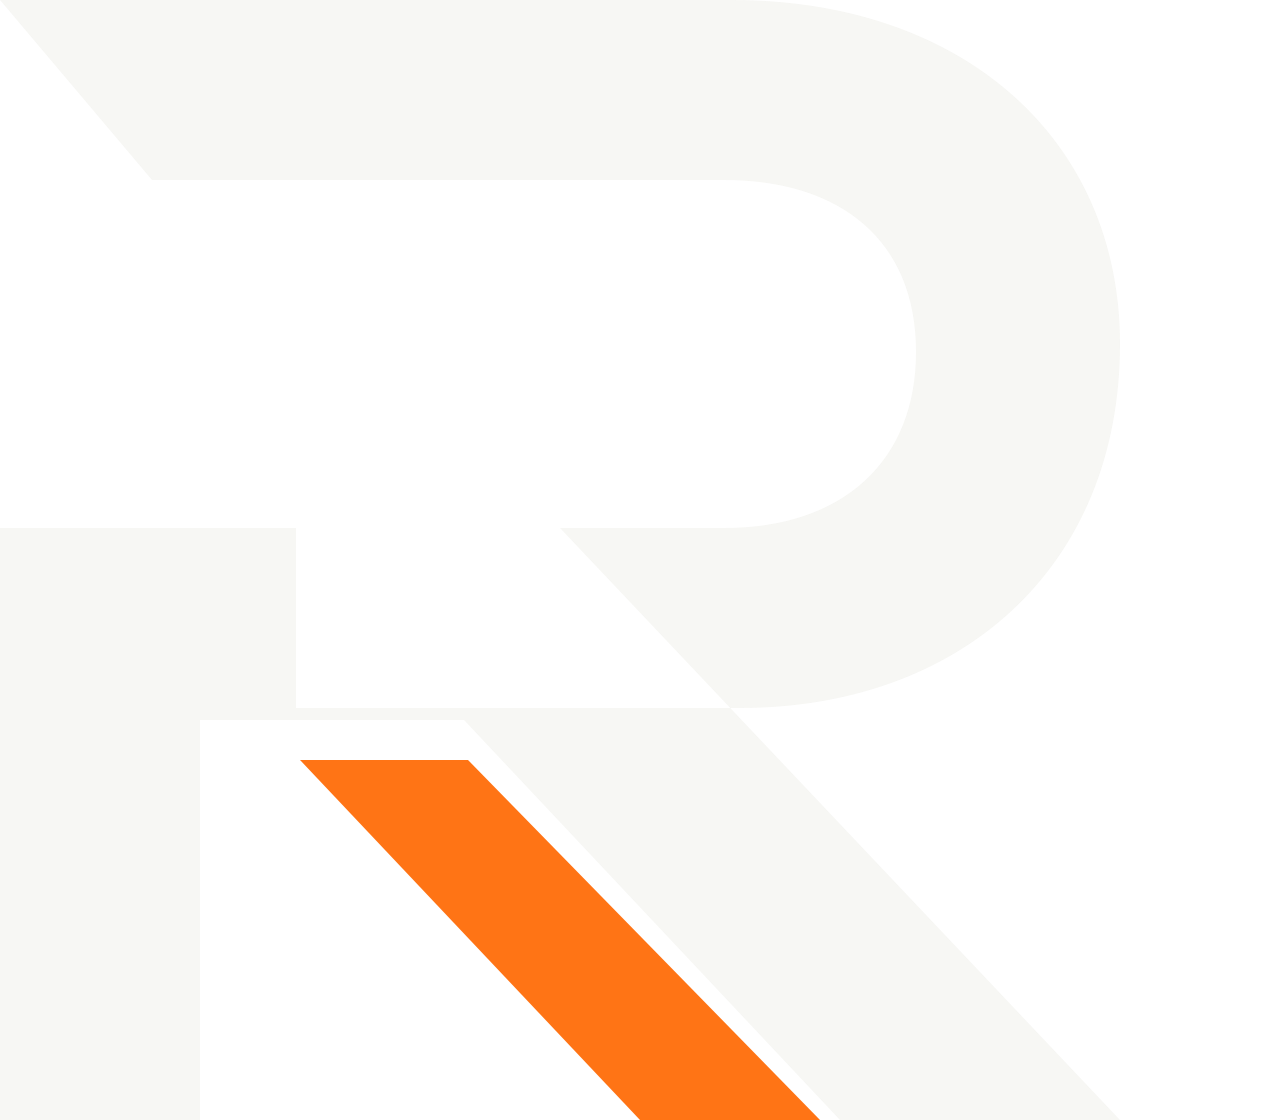
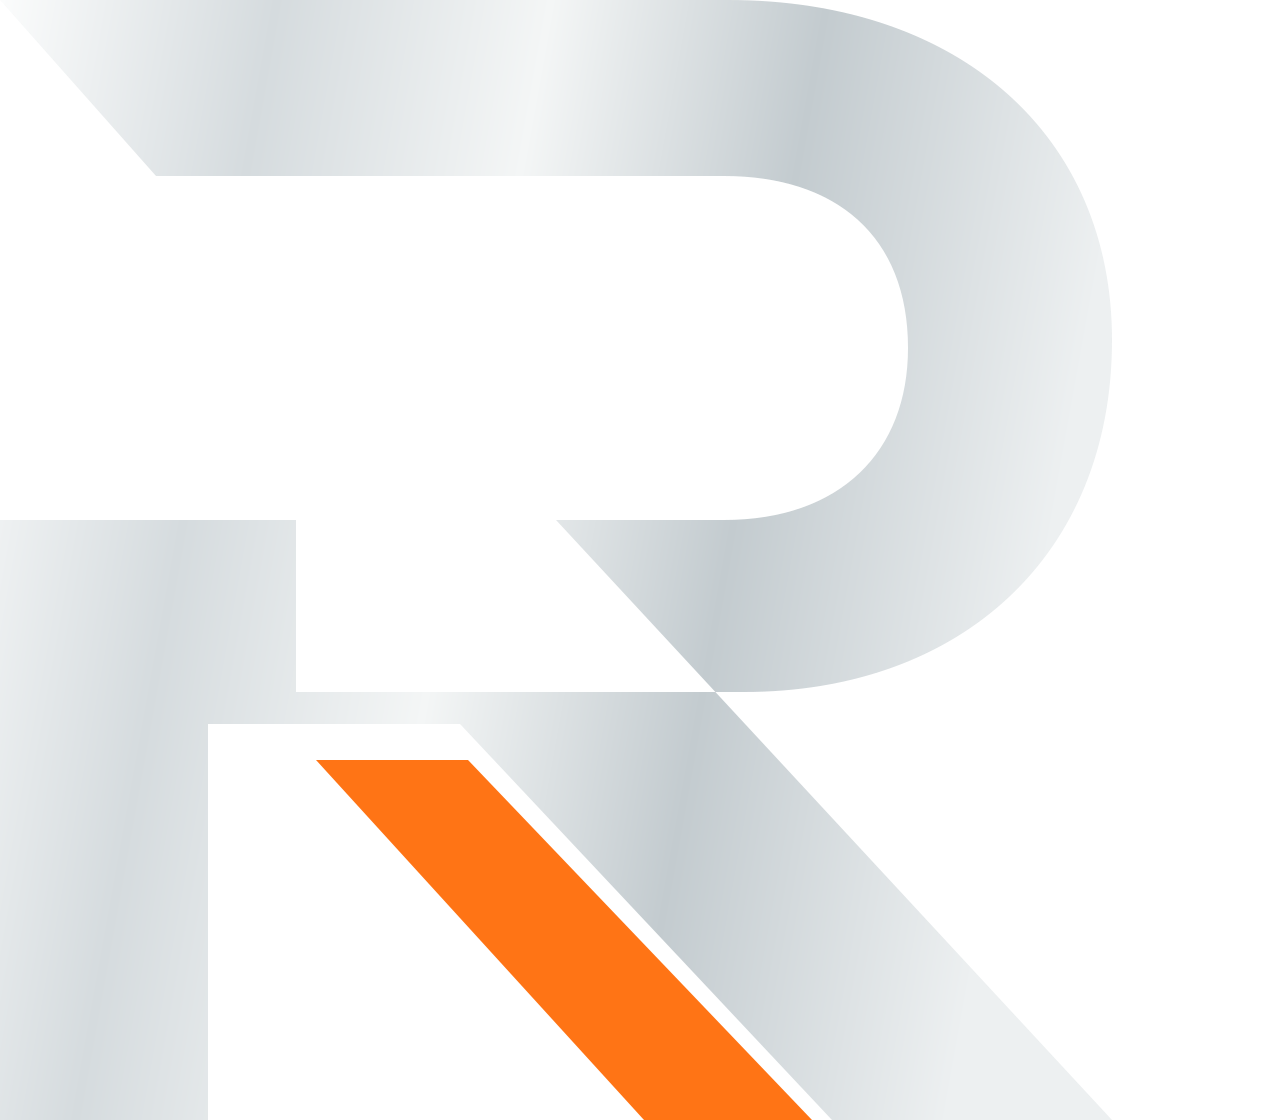
feat(brand): refine approved Rubikon mark

diff --git a/tests/unit/brand-assets.test.ts b/tests/unit/brand-assets.test.ts
@@ -10,7 +10,7 @@ describe('approved RUBIKON BUILD brand assets', () => {
   it('uses one outlined horizontal logo in both shared site-chrome locations', () => {
     const siteChrome = read('app/components/SiteChrome.tsx');
 
-    expect(siteChrome).toContain('src="/brand/rubikon-build-horizontal-dark.svg"');
+    expect(siteChrome).toContain('src="/brand/rubikon-build-horizontal-dark.svg?v=rubikon-03"');
     expect(siteChrome).toContain('width={1270}');
     expect(siteChrome).toContain('height={272}');
     expect(siteChrome).toContain('alt={`${company.name} — будівництво та інженерні рішення`}');
@@ -21,8 +21,10 @@ describe('approved RUBIKON BUILD brand assets', () => {
     const assets = [
       'rubikon-build-horizontal-dark',
       'rubikon-build-horizontal-light',
+      'rubikon-build-horizontal-premium',
       'rubikon-mark-dark',
       'rubikon-mark-light',
+      'rubikon-mark-premium',
     ];
 
     for (const asset of assets) {
@@ -34,6 +36,11 @@ describe('approved RUBIKON BUILD brand assets', () => {
     expect(mark).toContain('viewBox="0 0 320 280"');
     expect(mark).not.toContain('<circle');
     expect(mark).not.toContain('<text');
+    expect(mark).toContain('url(#mark-steel)');
+
+    const favicon = read('public/favicon.svg');
+    expect(favicon).not.toContain('mark-steel');
+    expect(favicon).not.toContain('premium-finish');
   });
 
   it('keeps the prior assets available during migration', () => {
@@ -56,8 +63,8 @@ describe('approved RUBIKON BUILD brand assets', () => {
 
     expect(layout).not.toContain('frame-01');
     expect(manifest).not.toContain('frame-01');
-    expect(layout.match(/rubikon-02/g)?.length).toBeGreaterThanOrEqual(6);
-    expect(manifest.match(/rubikon-02/g)).toHaveLength(3);
+    expect(layout.match(/rubikon-03/g)?.length).toBeGreaterThanOrEqual(6);
+    expect(manifest.match(/rubikon-03/g)).toHaveLength(3);
   });
 
   it('exports every expected native favicon size', () => {

diff --git a/app/layout.tsx b/app/layout.tsx
@@ -34,15 +34,15 @@ export const metadata: Metadata = {
     canonical: '/',
   },
   creator: company.name,
-  manifest: '/site.webmanifest?v=rubikon-02',
+  manifest: '/site.webmanifest?v=rubikon-03',
   icons: {
     icon: [
-      { url: '/favicon.svg?v=rubikon-02', sizes: 'any', type: 'image/svg+xml' },
-      { url: '/favicon.ico?v=rubikon-02', sizes: '16x16 32x32 48x48', type: 'image/x-icon' },
-      { url: '/favicon-48x48.png?v=rubikon-02', sizes: '48x48', type: 'image/png' },
+      { url: '/favicon.svg?v=rubikon-03', sizes: 'any', type: 'image/svg+xml' },
+      { url: '/favicon.ico?v=rubikon-03', sizes: '16x16 32x32 48x48', type: 'image/x-icon' },
+      { url: '/favicon-48x48.png?v=rubikon-03', sizes: '48x48', type: 'image/png' },
     ],
-    shortcut: '/favicon.ico?v=rubikon-02',
-    apple: [{ url: '/apple-touch-icon.png?v=rubikon-02', sizes: '180x180', type: 'image/png' }],
+    shortcut: '/favicon.ico?v=rubikon-03',
+    apple: [{ url: '/apple-touch-icon.png?v=rubikon-03', sizes: '180x180', type: 'image/png' }],
   },
   openGraph: {
     title: `Промислове будівництво у Дніпрі | ${company.name}`,
@@ -89,7 +89,7 @@ const organizationData = {
   url: company.siteUrl,
   logo: {
     '@type': 'ImageObject',
-    url: `${company.siteUrl}/icon-512x512.png?v=rubikon-02`,
+    url: `${company.siteUrl}/icon-512x512.png?v=rubikon-03`,
     width: 512,
     height: 512,
   },

diff --git a/app/logo-variants/page.tsx b/app/logo-variants/page.tsx
@@ -26,6 +26,14 @@ const versions = [
     height: 272,
   },
   {
+    asset: 'rubikon-build-horizontal-premium',
+    context: 'dark',
+    title: 'Преміальна металева версія',
+    text: 'Виразніший brushed-metal treatment для презентацій, hero-композицій, друку та signage. Не використовується у шапці сайту.',
+    width: 1270,
+    height: 272,
+  },
+  {
     asset: 'rubikon-mark-dark',
     context: 'dark mark',
     title: 'Компактний знак R',
@@ -52,7 +60,7 @@ export default function LogoVariantsPage() {
             {versions.map(({ asset, context, title, text, width, height }) => (
               <article className="logo-option" key={asset}>
                 <div className={`logo-preview logo-preview-${context.split(' ').join(' logo-preview-')}`}>
-                  <Image src={`/brand/${asset}.svg`} width={width} height={height} alt={`RUBIKON BUILD — ${title}`} unoptimized style={{ width: '100%', height: 'auto' }} />
+                  <Image src={`/brand/${asset}.svg?v=rubikon-03`} width={width} height={height} alt={`RUBIKON BUILD — ${title}`} unoptimized style={{ width: '100%', height: 'auto' }} />
                 </div>
                 <div className="logo-option-copy">
                   <h2>{title}</h2>

diff --git a/tests/e2e/brand-logo-visual.spec.ts b/tests/e2e/brand-logo-visual.spec.ts
@@ -85,19 +85,20 @@ for (const viewport of [headerViewports[0], headerViewports[3]]) {
   });
 }
 
-test('dark, light, and compact logo contexts', async ({ page }) => {
+test('web, light, premium, and compact logo contexts', async ({ page }) => {
   await page.setViewportSize({ width: 1280, height: 900 });
   await loadBrandPage(page, '/logo-variants');
 
   const previews = page.locator('.logo-preview');
-  await expect(previews).toHaveCount(3);
-  for (let index = 0; index < 3; index += 1) {
+  await expect(previews).toHaveCount(4);
+  for (let index = 0; index < 4; index += 1) {
     await waitForImage(previews.nth(index).locator('img'));
   }
 
   await expectBrandScreenshot(previews.nth(0), 'horizontal-logo-dark-context.png');
   await expectBrandScreenshot(previews.nth(1), 'horizontal-logo-light-context.png');
-  await expectBrandScreenshot(previews.nth(2), 'compact-r-dark-context.png');
+  await expectBrandScreenshot(previews.nth(2), 'horizontal-logo-premium-context.png');
+  await expectBrandScreenshot(previews.nth(3), 'compact-r-dark-context.png');
 });
 
 test('favicon remains legible at native 16, 32, and 48 pixel sizes', async ({ page, request }) => {

diff --git a/app/components/SiteChrome.tsx b/app/components/SiteChrome.tsx
@@ -49,7 +49,7 @@ function Brand() {
   return (
     <Image
       className="brand"
-      src="/brand/rubikon-build-horizontal-dark.svg"
+      src="/brand/rubikon-build-horizontal-dark.svg?v=rubikon-03"
       width={1270}
       height={272}
       alt={`${company.name} — будівництво та інженерні рішення`}

diff --git a/public/brand/README.md b/public/brand/README.md
@@ -1,6 +1,7 @@
-# RUBIKON BUILD — 01 / Каркас
+# RUBIKON BUILD — refined industrial identity
 
-Затверджений напрям: конструктивна літера R, мідь, графіт та світлий напис.
+Затверджений напрям: спрощена конструктивна літера R, холодний steel tone,
+плоский помаранчевий accent і графітове тло.
 
 ## Файли
 
@@ -11,9 +12,15 @@
 - rubikon-mark-copper.svg / .png — окремий мідний знак R.
 - rubikon-mark-black.svg / .png — графітовий знак R.
 - rubikon-mark-white.svg / .png — білий знак R.
+- rubikon-build-horizontal-dark.svg / .png — основний легкий metallic lockup для web.
+- rubikon-build-horizontal-light.svg / .png — плоский lockup для світлого тла.
+- rubikon-build-horizontal-premium.svg / .png — brushed-metal версія для великих форматів.
+- rubikon-mark-dark.svg / .png — легкий metallic знак для темного тла.
+- rubikon-mark-light.svg / .png — плоский знак для світлого тла.
+- rubikon-mark-premium.svg / .png — premium знак для hero, print і signage.
 
 SVG — майстер-файли. Усі літери у векторних контурах, зовнішні шрифти не потрібні.
-PNG — прозорі: повні логотипи 1884 × 400 px, знаки 356 × 400 px.
+PNG — прозорі: повні логотипи 2540 × 544 px, окремі знаки 1280 × 1120 px.
 
 ## Кольори
 
@@ -22,9 +29,9 @@ PNG — прозорі: повні логотипи 1884 × 400 px, знаки 3
 - Графіт: #161A1B.
 - Світлий: #F4F1EA.
 
-Не розтягувати, не додавати тіні, градієнти чи світіння. Зберігати вільне поле
+Не розтягувати, не додавати сильні тіні, chrome-ефекти чи світіння. Зберігати вільне поле
 не менше ширини вертикальної опори знака. Для дуже малих квадратних місць
-використовувати знак R без напису.
+використовувати плоский знак R без напису та metallic texture.
 
 ## Іконки сайту (у public/)
 

diff --git a/docs/rubikon-brand-logo-integration.md b/docs/rubikon-brand-logo-integration.md
@@ -30,10 +30,16 @@ New production exports:
 
 - `rubikon-build-horizontal-dark.svg/.png` — header, footer, and dark surfaces;
 - `rubikon-build-horizontal-light.svg/.png` — light surfaces;
+- `rubikon-build-horizontal-premium.svg/.png` — presentation, hero, print, and signage;
 - `rubikon-mark-dark.svg/.png` — compact mark on dark surfaces;
 - `rubikon-mark-light.svg/.png` — compact mark on light surfaces;
+- `rubikon-mark-premium.svg/.png` — large-format premium mark;
 - platform favicon/app-icon sizes generated from the same R master;
 - refreshed `og.jpg` and `og.png`, preserving the approved hall image and existing subtitle.
+
+The primary dark lockup uses a lightweight steel gradient without a runtime texture filter. The
+premium exports add restrained brushed texture and shallow volume, while the orange diagonal stays
+flat in every version. Platform icons deliberately use the flat master for small-size clarity.
 
 The compact mark deliberately has no enclosing circle. Normal icons fill 74% of the canvas,
 16 px uses a slightly larger 78% optical size, and the maskable icon stays inside a 58% safe zone.
